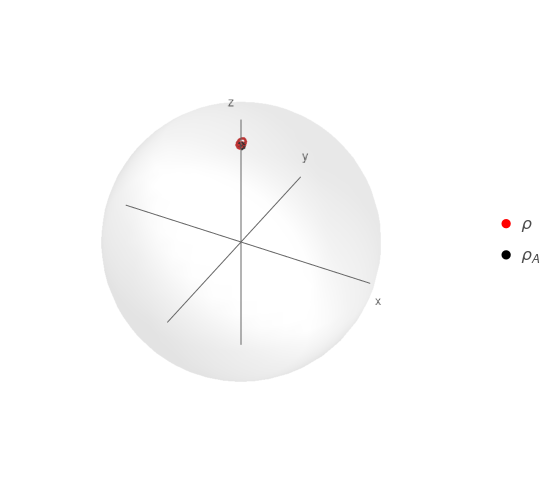
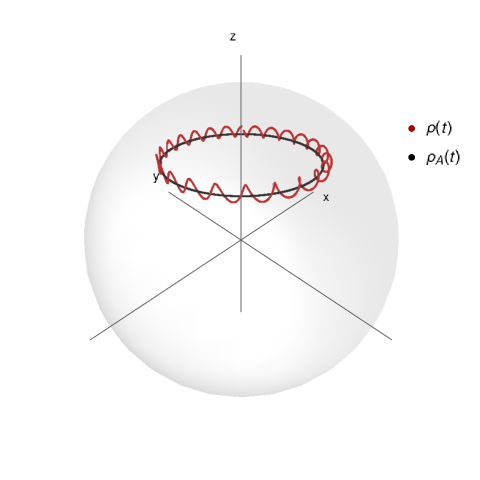
beamer changes

diff --git a/beamer/other/dynamics.tex b/beamer/other/dynamics.tex
@@ -1,117 +1,69 @@
 \section{Effective dynamics}
 
-\subsection{Separable dynamics}
+\subsection{Factorizable dynamics}
 
 \begin{frame}{General solution}
     Factorizable unitary dynamics are of the form $\mcU_{t}=U_{1}^{t}\otimes U_{2}^{t}$.
     \begin{align*}
-        \text{Since } \varrho=\rho_{A}\otimes\rho_{B} & & \Longrightarrow & &\rho\mapsto pU_{1}^{t}\rho_{A}(U_{1}^{t})^{\dag}+(1-p)U_{2}^{t}\rho_{B} (U_{2}^{t})^{\dag}.
+        \text{Since } \varrho=\rho_{A}\otimes\rho_{B} & & \Longrightarrow & &\rho\mapsto (1-p)U_{1}^{t}\rho_{A}(U_{1}^{t})^{\dag}+pU_{2}^{t}\rho_{B} (U_{2}^{t})^{\dag}.
     \end{align*}
     Expected values evolve as
-    \begin{align*}
-        \begin{split}
-            \expval{\pauli{i}(t)}=&\frac{p\tanh(p\lambda)}{2}\Tr[\pauli{i}U_{1}^{t}(\paulivec{r_{\rho}})(U_{1}^{t})^{\dag}]\\
-        &+\frac{p\tanh((1-p)\lambda)}{2}\Tr[\pauli{i}U_{2}^{t}(\paulivec{r_{\rho}})(U_{2}^{t})^{\dag}].
-        \end{split}
-      \end{align*}
+    \begin{equation*}
+            \expval{\pauli{i}(t)}=(1-p)\Tr[\pauli{i}U_{1}^{t}\rho_{A}(U_{1}^{t})^{\dag}]+p\Tr[\pauli{i}U_{2}^{t}\rho_{B}(U_{2}^{t})^{\dag}].
+      \end{equation*}
 \end{frame}
 
-\begin{frame}{Two cases}
+
+\begin{frame}{One example}
+    \begin{columns}
+        \begin{column}{0.5\textwidth}
+            Let
+            \begin{equation*}
+                \rho=\frac{1}{2}\qty[\Id+\frac{4}{5\sqrt{2}}\qty(\frac{1}{2}\pauli{1}+\frac{1}{2}\pauli{2}+\pauli{3})],
+            \end{equation*}
+            and $\mcU_{t}=e^{-itH_{1}}\otimes e^{-itH_{2}}$ where
+                \begin{align*}
+                    H_{1}=\pauli{3} & & \text{and} & & H_{2}=\frac{\omega}{\sqrt{2}}(\pauli{1}-\pauli{2}).
+                \end{align*}
+            Solution:
+            \begin{equation*}
+                \expval{\pauli{3}(t)}=\expval{\pauli{3}(0)}+pr_{B}(\cos(2\omega t)-1).
+            \end{equation*}
+        \end{column}
+        \begin{column}{0.5\textwidth}
+            \begin{figure}[h!]
+                \includegraphics[width=0.7\columnwidth]{figures/U1xU2_H1=(sz)_H2=15(sx-sy)_z=0.8_p=0.9_far.png}%
+                \caption{Oscillations near no-error trajectory.\\ $r=0.8$ $p=0.9$ and $\omega=15$. }
+            \end{figure}
+        \end{column}
+    \end{columns}
+\end{frame}
+
+\begin{frame}{Two less specific cases}
+    Asume either $U_{1}=\Id$ or $U_{2}=\Id$.
+    Let $r_{A}\hat{r}_{\rho}$ and $r_{B}\hat{r}_{\rho}$ be the Bloch vectors of $\rho_{A}$ and $\rho_{B}$. Let $O_{i}$ be the rotation induced by $U_{i}$
     \begin{columns}
         \begin{column}{0.5\textwidth}
             \begin{itemize}
-                \item Asume $U_{1}= U_{2}=U$.
-                \item Thanks to symmetry, the evolution may be factored as
-                \begin{align*}
-                    \rho(t)&=pU^{t}\rho_{A}(U^{t})^{\dag}+(1-p)U^{t}\rho_{B}(U^{t})^{\dag} \\
-                    &=U^{t}(p\rho_{A}+(1-p)\rho_{B})(U^{t})^{\dag}\\
-                    &=U^{t}\rho(0)(U^{t})^{\dag}.
-                    \end{align*}
-                \item The effective dynamics are    
-                \begin{equation*}
-                    \rho\mapsto U^{t}\rho(U^{t})^{\dag}.
-                \end{equation*}
-            \end{itemize}
-        \end{column}
-        \begin{column}{0.5\textwidth}
-            \begin{itemize}
-                \item Asume either $U_{1}=\Id$ or $U_{2}=\Id$.
-                \item Let $r_{A}\hat{r}_{\rho}$ and $r_{B}\hat{r}_{\rho}$ be the Bloch vectors of $\rho_{A}$ and $\rho_{B}$. Let $O_{i}$ be the rotation induced by $U_{i}$
-                \item If $U_{2}=\Id$ then:
-                \begin{equation*}
-                    r\hat{r}_{\rho}\mapsto O_{1}(r\hat{r}_{\rho}-(1-p)r_{B}\hat{r}_{\rho})+(1-p)r_{B}\hat{r}_{\rho}.
-                \end{equation*}
                 \item If $U_{1}=\Id$ then:
                 \begin{equation*}
                     r\hat{r}_{\rho}\mapsto r\hat{r}_{\rho}+(1-p)(O_{2}(r_{B}\hat{r}_{\rho})-r_{B}\hat{r}_{\rho}).
                 \end{equation*}
             \end{itemize}
         \end{column}
-    \end{columns}
-\end{frame}
-
-
-
-
-\begin{frame}{One example}
-    \begin{columns}
         \begin{column}{0.5\textwidth}
-            Let's consider an effective state
+            \begin{itemize}
+                \item If $U_{2}=\Id$ then:
                 \begin{equation*}
-                    \rho=\frac{1}{2}(\Id+r_{z}\pauli{3}),
+                    r\hat{r}_{\rho}\mapsto O_{1}(r\hat{r}_{\rho}-(1-p)r_{B}\hat{r}_{\rho})+(1-p)r_{B}\hat{r}_{\rho}.
                 \end{equation*}
-            and an evolution $\mcU_{t}=e^{-itH_{1}}\otimes e^{-itH_{2}}$ where
-                \begin{align*}
-                    H_{1}=\pauli{3} & & \text{and} & & H_{2}=\frac{\omega}{\sqrt{2}}(\pauli{1}-\pauli{2}).
-                \end{align*}
-            We may solve this by using the formula
-                \begin{equation*}
-                    \rho\mapsto pU_{1}^{t}\rho_{A}(U_{1}^{t})^{\dag}+(1-p)U_{2}^{t}\rho_{B} (U_{2}^{t})^{\dag}.
-                \end{equation*}
-        \end{column}
-        \begin{column}{0.5\textwidth}
-            The unitaries might be written as
-                \begin{equation*}
-                    U_{1}^{t}=\Id\cos(\omega t) - i \pauli{3} \sin(\omega t),
-                \end{equation*}
-                \begin{equation*}
-                    U_{2}^{t}=\Id\cos(\omega t) - \frac{i}{\sqrt{2}} (\pauli{1}-\pauli{2}) \sin(\omega t).
-                \end{equation*}
-                In a no-error scenario, we expect $\expval{\pauli{3}}=r_{z}$. Here, it is found to be:
-                \begin{equation*}
-                    \expval{\pauli{3}(t)}=\expval{\pauli{3}(0)}+(1-p)r_{B}(\cos(2\omega t)-1).
-                \end{equation*}
-            Note that $\expval{\pauli{3}(0)}$ is nothing but $r_{z}$.
-        \end{column}
-    \end{columns}
-\end{frame}
-
-\begin{frame}{Other states}
-    \begin{columns}
-        \begin{column}{0.5\textwidth}
-            This oscillation is observable even if the initial efective state, $\rho$, is not invariant under the unitary $U_{1}$.
-            
-            Let $\rho$ be
-            \begin{equation*}
-                \rho=\frac{1}{2}\qty[\Id+\frac{4}{5\sqrt{2}}\qty(\frac{1}{2}\pauli{1}+\frac{1}{2}\pauli{2}+\pauli{3})]
-            \end{equation*}
-            Clearly, this state is not invariant under 
-            \begin{equation*}
-                U_{1}^{t}=\Id\cos(\omega t) - i \pauli{3} \sin(\omega t).
-            \end{equation*}
-        \end{column}
-        \begin{column}{0.5\textwidth}
-            \begin{figure}[h!]
-                \includegraphics[width=0.8\columnwidth]{figures/U1xU2_H1=(sz)_H2=15(sx-sy)_z=0.8_p=0.9_wXY=0.5.png}%
-                \caption{Small oscillations around the no-error trajectory. Here, $r=0.8$ $p=0.9$ and $\omega=15$. }
-            \end{figure}
+            \end{itemize}
         \end{column}
     \end{columns}
 \end{frame}
 
 
-
-\subsection{Quantum computing gates}
+\subsection{SWAP gate}
 
 \begin{frame}{Effective SWAP}
     State before and after the SWAP evolution is
@@ -191,7 +143,7 @@ Or, in terms of the probability of getting either $\ket{0}$ or $\ket{1}$ as
     \end{figure}
 \end{frame}
 
-
+\subsection{CNOT gate}
 
 \begin{frame}{CNOT gate}
     The controlled not gatis generated by a hamiltonian

diff --git a/beamer/other/maxent_state.tex b/beamer/other/maxent_state.tex
@@ -23,7 +23,7 @@
             \begin{equation*}
                 S(\rho)=-\Tr(\rho\ln{\rho}).
             \end{equation*}
-            Using Lagrange multiplers, the state that maximizes it:
+            Using Lagrange multipliers, the state that maximizes it:
             \begin{equation*}
                 \rho_{max}=\frac{1}{Z}e^{\sum_{i}\lambda_{i}\hat{G}_{i}},
             \end{equation*}
@@ -37,26 +37,64 @@
         \begin{column}{0.5\textwidth}
             Our CG map:
             \begin{equation*}
-                \CG{\varrho}=\Tr_{2}(p\varrho+(1-p)S\varrho S^{\dag})
+                \CG{\varrho}=\Tr_{2}((1-p)\varrho+pS\varrho S^{\dag})
             \end{equation*}
             Observables in $\densityspace{2}$ but MaxEnt state in $\densityspace{4}$? No problem!
             \begin{align*}
                 \langle \sigma_{i}\rangle=&\Tr{\sigma_{i} \rho}\\
-                =&\Tr{\sigma_{i}\otimes\Id(p\varrho+(1-p)S\varrho S)}\\
+                =&\Tr{\sigma_{i}\otimes\Id((1-p)\varrho+pS\varrho S)}\\
                 =&\langle \hat{G}_{i}\rangle.
             \end{align*}
         \end{column}
         \begin{column}{0.5\textwidth}
             Construct $\varrho_{max}$ via
             \begin{equation*}
-                \hat{G}_{i}=p\sigma_{i}\otimes\Id+(1-p)\Id\otimes\sigma_{i}.
+                \hat{G}_{i}=(1-p)\sigma_{i}\otimes\Id+p\Id\otimes\sigma_{i}.
             \end{equation*}
             as
             \begin{equation*}
-                \varrho_{max}=\frac{e^{-\lambda p(\hat{r}_{\rho}\cdot\vec{\sigma})}}{Z_{1}} \otimes \frac{e^{-\lambda(1-p)(\hat{r}_{\rho}\cdot\vec{\sigma})}}{Z_{2}}.
+                \varrho_{max}=\frac{e^{\lambda (1-p)(\hat{r}_{\rho}\cdot\vec{\sigma})}}{Z_{A}} \otimes \frac{e^{\lambda p(\hat{r}_{\rho}\cdot\vec{\sigma})}}{Z_{B}}.
             \end{equation*}
             Where $\hat{r}_{\rho}$ is $\rho$'s unit Bloch vector, and $\lambda=\sqrt{\lambda^{2}_{1}+\lambda^{2}_{2}+\lambda^{2}_{3}}$.
-
         \end{column}
     \end{columns}
+\end{frame}
+
+\begin{frame}{Separable MaxEnt}
+    \begin{columns}
+        \begin{column}{0.5\textwidth}
+            MaxEnt state is separable:
+            \begin{equation*}
+                \varrho_{max}=\rho_{A}\otimes\rho_{B}
+            \end{equation*}
+            The effective state:
+            \begin{equation*}
+                \rho=(1-p)\rho_{A}+p\rho_{B}
+            \end{equation*}
+        \end{column}
+        \begin{column}{0.5\textwidth}
+            \begin{figure}[h!]
+                \includegraphics[width=0.75\columnwidth]{figures/effective_state_as_sum.png}%
+                \caption{Effective state decomposed}
+            \end{figure}
+        \end{column}
+    \end{columns}
+\end{frame}
+
+\begin{frame}{Quick review}
+    \begin{displaymath}
+        \xymatrix{
+          {\rho(0)} \ar[rr]^{\Gamma_{t}} \ar[d]^{\mcA^{max}_{\mcC}}
+          && {\rho(t)}\\
+          {\varrho_{max}(0)} \ar[rr]^{\mcU_{t}}
+          && {\varrho_{max}(t)} \ar[u]^{\mcC}
+        }
+      \end{displaymath}
+      Where:
+        \begin{equation*}
+            \mcA_{\mcC}^{\max}[\rho]=\varrho_{max}=\rho_{A}\otimes\rho_{B} \qquad \mcU_{t}[\rho]=U^{t}\varrho(U^{t})^{\dag} \qquad \CG{\varrho}=\Tr_{2}((1-p)\varrho+pS\varrho S^{\dag})
+        \end{equation*}
+        \begin{equation*}
+            \boxed{\Gamma_t[\rho]:=(\mcC \circ \mcU_t \circ \mcA^{max}_{\mcC})[\rho].}
+        \end{equation*}
 \end{frame}

diff --git a/beamer/other/problem_statement.tex b/beamer/other/problem_statement.tex
@@ -3,7 +3,7 @@
 \begin{frame}{Blurry, low resolution measurement tool}
     \begin{itemize}
         \item Faulty instrumentation.
-        \item Can only resolve one particle.
+        \item Can only resolve one \textit{effective } particle.
         \item May measure the wrong particle.
     \end{itemize}
     \begin{equation*}
@@ -15,15 +15,15 @@
     \begin{columns}
         \begin{column}{0.5\textwidth}
             \begin{itemize}
-                \item Microscopic evolution is known.
                 \item \textbf{Objective:} study the \textit{observable} dynamics.
+                \item Microscopic evolution is known.
                 \item Estimate of microscopic state is needed (not unique!). 
             \end{itemize}
         \end{column}
         \begin{column}{0.5\textwidth}
             \begin{displaymath}
                 \xymatrix{
-                  {\rho(0)} \ar[rr]^{\Gamma_{t}} \ar[d]^{\mcA}
+                  {\rho(0)} \ar[rr]^{\Gamma_{t}} \ar[d]^{\mcA_{\mcC}}
                   && {\rho(t)}\\
                   {\varrho(0)} \ar[rr]^{\mcU_{t}}
                   && {\varrho(t)} \ar[u]^{\mcC}

diff --git a/beamer/other/apendices.tex b/beamer/other/apendices.tex
@@ -1,6 +1,6 @@
-\section{Apendices}
+\section{Appendix}
 
-\begin{frame}{Lagrange \textit{variable} and purity}
+\begin{frame}{A1. Lagrange \textit{variable} and purity}
     \begin{columns}
         \begin{column}{0.5\textwidth}
             Having $\varrho_{max}$ in terms of $\lambda$ instead of observables is not ideal. The effective state is
@@ -9,11 +9,7 @@
             \end{equation*}
             The relation between the observables and the Lagrange variable is
             \begin{equation*}
-                r_{\rho}=-(p\tanh{\lambda p}+(1-p)\tanh{\lambda (1-p)}).
-            \end{equation*}
-            $r_{\rho}$ is realted to purity of the effective state by
-            \begin{equation*}
-                r_{\rho}=\sqrt{2\text{Pu}(\rho)-1}.
+                r_{\rho}=(1-p)\tanh{\lambda (1-p)}+p\tanh{\lambda p}.
             \end{equation*}
         \end{column}
         \begin{column}{0.5\textwidth}

diff --git a/beamer/other/conclusions.tex b/beamer/other/conclusions.tex
@@ -1,0 +1,12 @@
+\section{Conclusions}
+
+\begin{frame}{Conclusions}
+    \begin{itemize}
+        \item Faulty instrumentation.
+        \item Can only resolve one particle.
+        \item May measure the wrong particle.
+    \end{itemize}
+    \begin{equation*}
+        \mcC[\varrho]=\Tr_{2}[(1-p)\varrho+pS\varrho S^{\dag}].
+    \end{equation*}
+\end{frame}

diff --git a/beamer/other/main.tex b/beamer/other/main.tex
@@ -56,6 +56,7 @@
 \include{problem_statement}
 \include{maxent_state}
 \include{dynamics}
+\include{conclusions}
 
 
 \appendix
